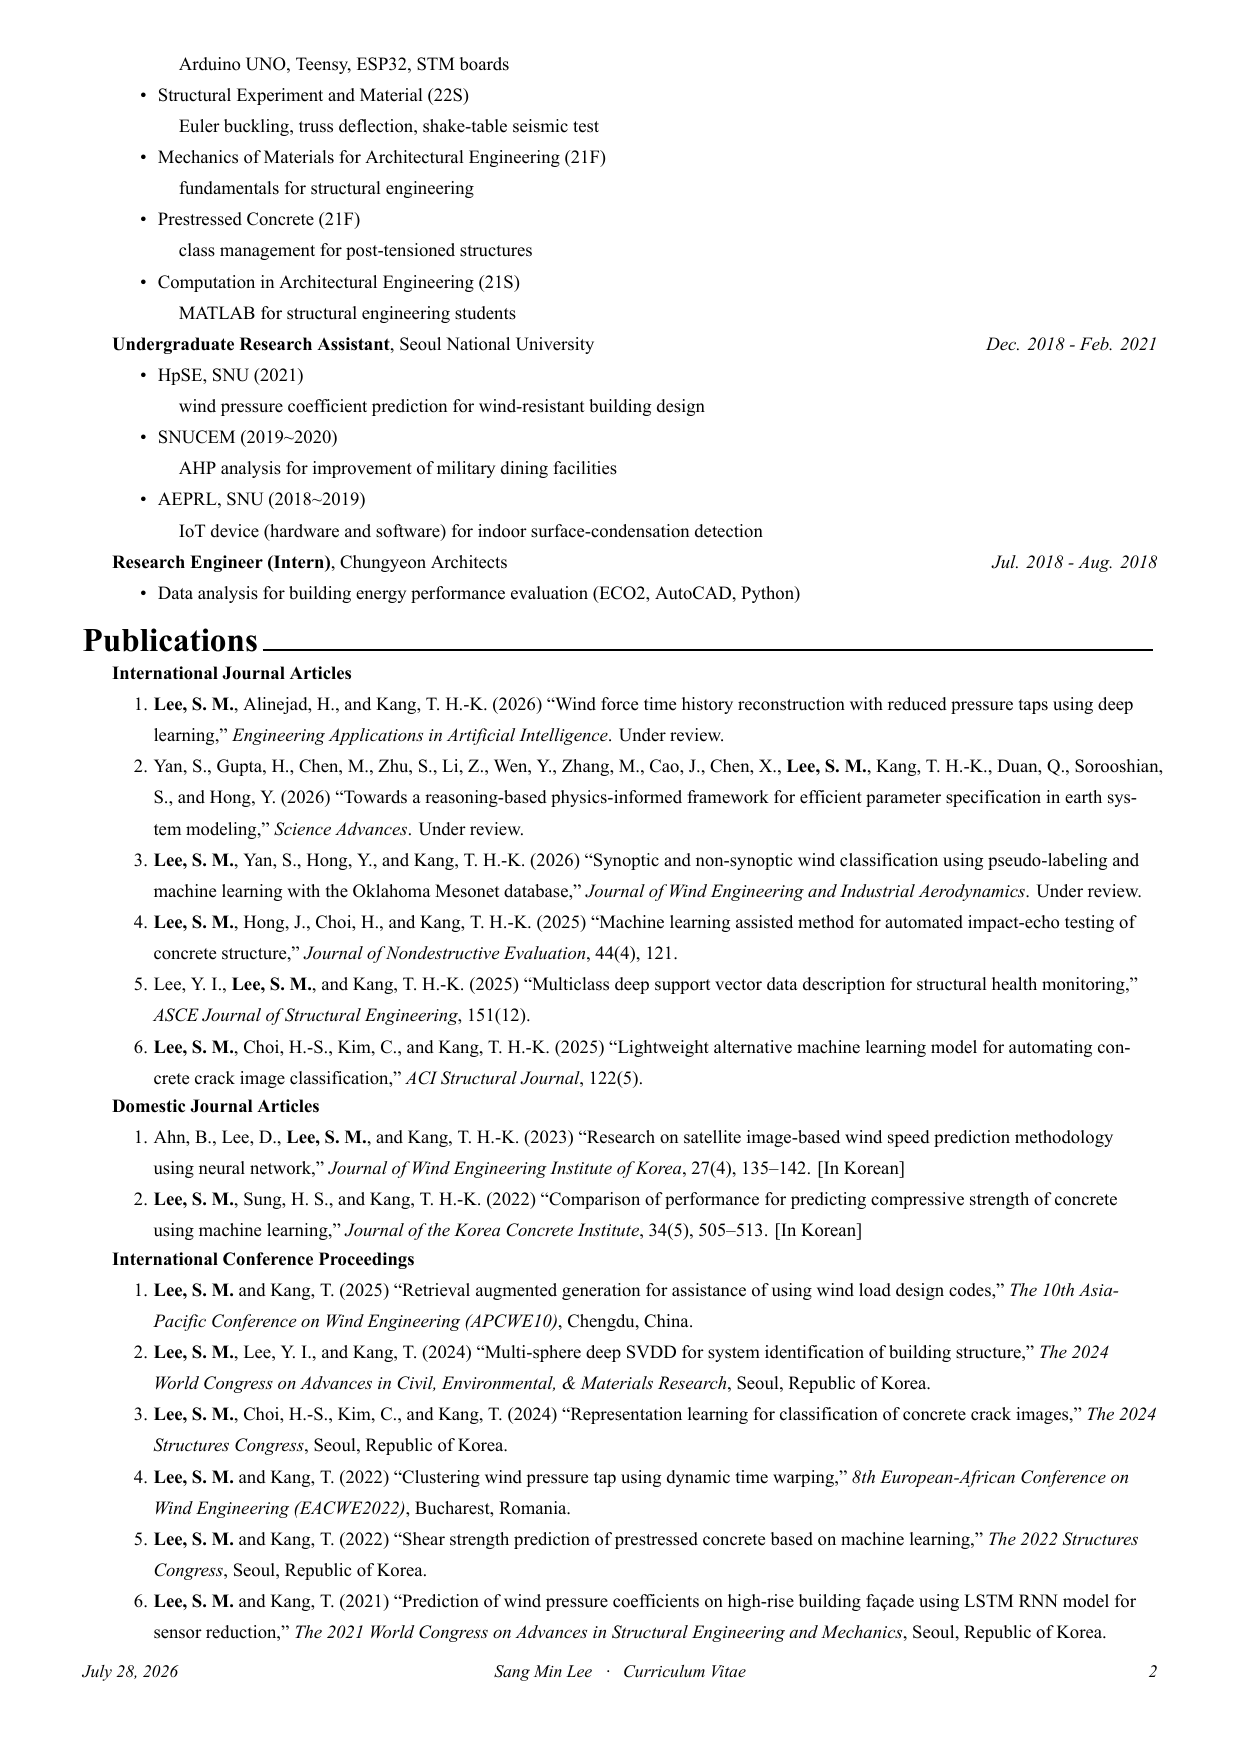
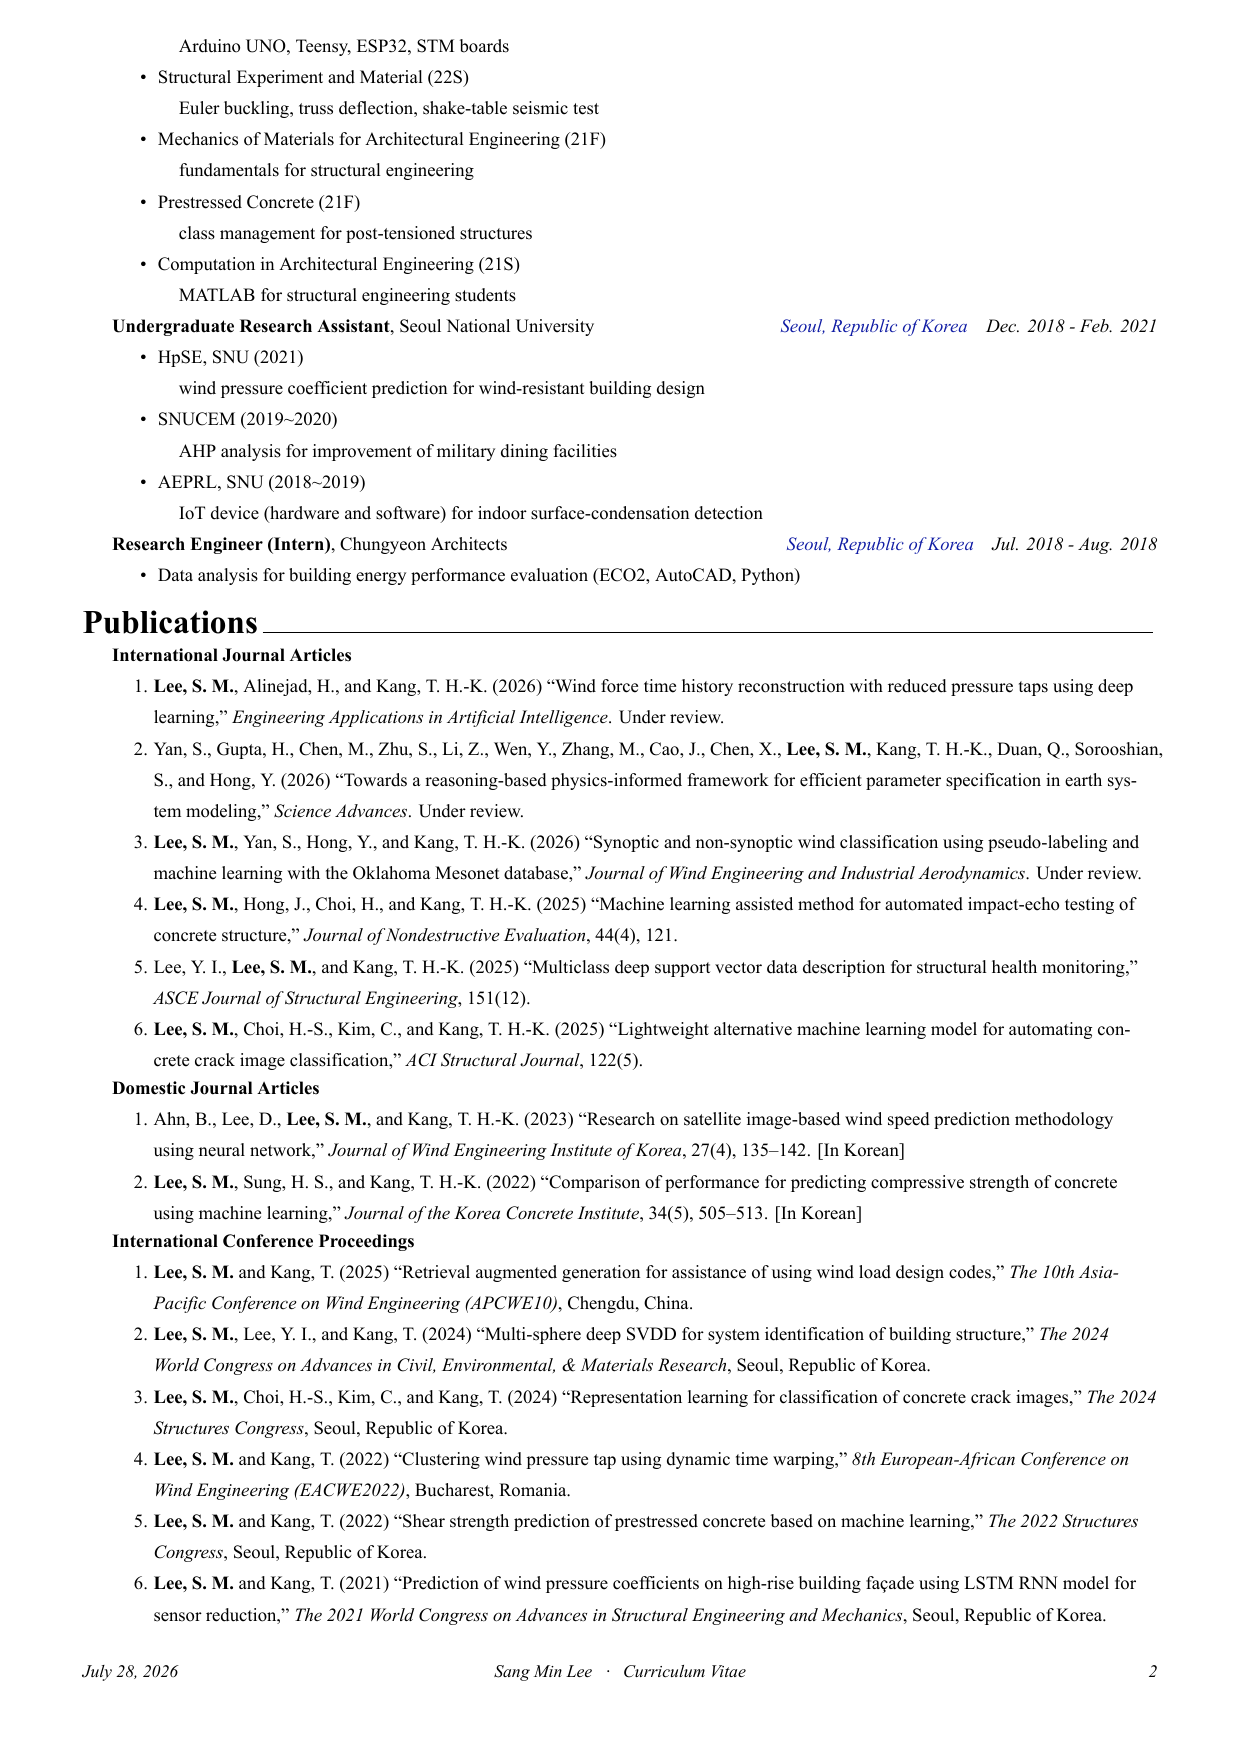
Raise header, widen gap below it, restore locations in Experience

Changed region(s): [[0.0612, 0.0, 0.9186, 0.9544], [0.7961, 0.3079, 0.9186, 0.3387], [0.7961, 0.1847, 0.9186, 0.2155]]

diff --git a/research-cv/cv/research_experience.tex b/research-cv/cv/research_experience.tex
@@ -10,10 +10,10 @@
 \begin{cventries}
 
   \cventry
-  {\entrytitlestyle{Graduate Research Assistant}, Structural Engineering Laboratory, Seoul National University}
+  {\entrytitlestyle{Graduate Research Assistant}, Structural Engineering Laboratory, SNU}
   {}
   {}
-  {Mar. 2021 - Present}
+  {\entrylocationstyle{Seoul, Republic of Korea}\quad Mar. 2021 - Present}
   {
     \begin{cvitems}
       \item {Research projects:}
@@ -42,7 +42,7 @@
   {\entrytitlestyle{Visiting Student Researcher}, The University of Oklahoma}
   {}
   {}
-  {Oct. 2025 - Nov. 2025}
+  {\entrylocationstyle{Norman, OK, USA}\quad Oct. 2025 - Nov. 2025}
   {
     \begin{cvitems}
       \item {School of Civil Engineering and Environmental Sciences \& National Weather Center}
@@ -53,7 +53,7 @@
   {\entrytitlestyle{Conference Organizing Committee Member}, Wind Engineering Institute of Korea}
   {}
   {}
-  {Apr. 2025 - May 2025}
+  {\entrylocationstyle{Seoul, Republic of Korea}\quad Apr. 2025 - May 2025}
   {
     \begin{cvitems}
       \item {Organizing committee, 28th WEIK Annual Conference \& General Assembly (hosted at SNU)}
@@ -64,7 +64,7 @@
   {\entrytitlestyle{Graduate Teaching Assistant}, Seoul National University}
   {}
   {}
-  {Mar. 2021 - Jun. 2024}
+  {\entrylocationstyle{Seoul, Republic of Korea}\quad Mar. 2021 - Jun. 2024}
   {
     \begin{cvitems}
       \item {Architecture and AI (22S, 23S, 24S)}
@@ -118,7 +118,7 @@
   {\entrytitlestyle{Undergraduate Research Assistant}, Seoul National University}
   {}
   {}
-  {Dec. 2018 - Feb. 2021}
+  {\entrylocationstyle{Seoul, Republic of Korea}\quad Dec. 2018 - Feb. 2021}
   {
     \begin{cvitems}
       \item {HpSE, SNU (2021)}
@@ -143,7 +143,7 @@
   {\entrytitlestyle{Research Engineer (Intern)}, Chungyeon Architects}
   {}
   {}
-  {Jul. 2018 - Aug. 2018}
+  {\entrylocationstyle{Seoul, Republic of Korea}\quad Jul. 2018 - Aug. 2018}
   {
     \begin{cvitems}
       \item {Data analysis for building energy performance evaluation (ECO2, AutoCAD, Python)}

diff --git a/research-cv/cv.tex b/research-cv/cv.tex
@@ -43,7 +43,7 @@
 \documentclass[11pt, a4paper]{awesome-cv}
 
 % Configure page margins with geometry
-\geometry{left=1.4cm, top=.8cm, right=1.4cm, bottom=1.8cm, footskip=.5cm}
+\geometry{left=1.4cm, top=.5cm, right=1.4cm, bottom=1.8cm, footskip=.5cm}
 
 \usepackage[font=footnotesize]{subcaption}
 \usepackage{enumitem}
